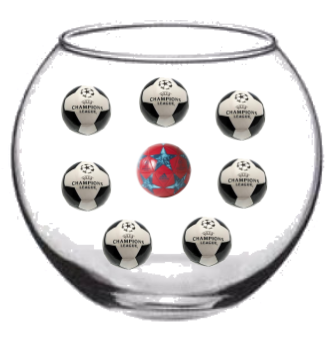
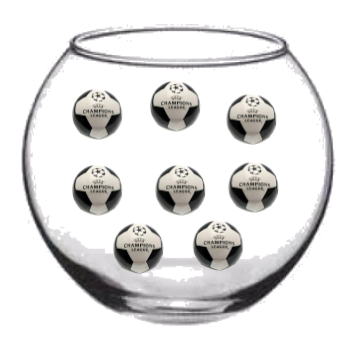
update

diff --git a/proyectoWeb/raffle.html b/proyectoWeb/raffle.html
@@ -68,23 +68,32 @@
 
       <div class="bg-faded p-4 my-4">
         <div class="card card-inverse">
-          <img class="card-img img-fluid w-100" src="img/slide-1.jpg" alt="">
-          <div class="card-img-overlay bg-overlay">
-            <h2 class="card-title text-shadow text-white text-uppercase mb-0">Bombos de Equipos</h2>
-            <h4 class="text-shadow text-white">--iusbdonujaskdadsjajsnkmxjkdnsxnjdskndsj</h4>
-            <p class="lead card-text text-shadow text-white w-50 d-none d-lg-block"></p>
-          </div>
-        </div>
-      </div>
-
-      <div class="bg-faded p-4 my-4">
-        <div class="card card-inverse">
-          <img class="card-img img-fluid w-100" src="img/slide-2.jpg" alt="">
-          <div class="card-img-overlay bg-overlay">
-            <h2 class="card-title text-shadow text-white text-uppercase mb-0">Posiciones</h2>
-            <h4 class="text-shadow text-white">--</h4>
-            <p class="lead card-text text-shadow text-white w-50 d-none d-lg-block">Lorem ipsum dolor sit amet, consectetur adipisicing elit. Velit repellat provident quo aliquam eius ea, animi porro magnam totam dolor nam error quas labore eveniet dicta nostrum inventore veniam. Ipsam?</p>
-          </div>
+        <h2 class="card-title text-shadow text-white text-uppercase mb-0">Bombos</h2>
+        <table >
+        <tr>
+        <td> <img height="230" width="230" src="img/bomboEquipoAnfitrion.PNG" /> </td>
+        <td> <img height="230" width="230" src="img/bombo8Equipos.PNG"/> </td>
+        <td> <img height="230" width="230" src="img/bombo8Equipos.PNG"/> </td>
+        <td> <img height="230" width="230" src="img/bombo8Equipos.PNG"/> </td>
+        </tr>
+        <tr>
+          <td><quote> <button>Calcular</button></td>
+          <td><button>Calcular</button></td>
+          <td><button>Calcular</button></td>
+          <td><button>Calcular</button></td>
+        </tr>
+        </table>
+        <br>
+        <br>
+         <table>
+        <tr>
+        <td> <img height="230" width="230" src="img/posicion8.PNG" /> </td>
+        <td> <img height="230" width="230" src="img/posicion8.PNG"/> </td>
+        <td> <img height="230" width="230" src="img/posicion8.PNG"/> </td>
+        <td> <img height="230" width="230" src="img/posicion8.PNG"/> </td>
+        </tr>
+        </table>
+        
         </div>
       </div>
 
